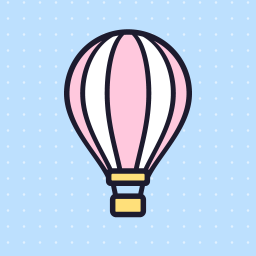
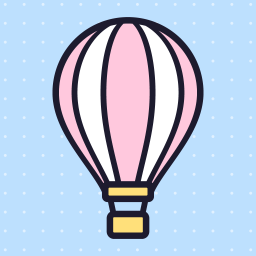
fix: icône agrandie et FAQ sur l'enregistrement (ajout seulement, sans album)

diff --git a/assistance.html b/assistance.html
@@ -74,12 +74,12 @@
 
     <details>
       <summary>Mes originaux sont-ils supprimés ?</summary>
-      <p>Non, jamais. Allège crée une copie allégée. Touchez « Enregistrer » pour l'ajouter à vos photos (album « Allège ») ou « Partager » pour l'envoyer. Vous pouvez ensuite supprimer l'original vous-même si vous le souhaitez.</p>
+      <p>Non, jamais. Allège crée une copie allégée. Touchez « Enregistrer » pour l'ajouter à vos photos, à côté de l'original, ou « Partager » pour l'envoyer. Vous pouvez ensuite supprimer l'original vous-même si vous le souhaitez.</p>
     </details>
 
     <details>
       <summary>« Enregistrer » ne fonctionne pas.</summary>
-      <p>Allège a besoin de l'autorisation d'ajouter des photos. Ouvrez Réglages &gt; Allège &gt; Photos et choisissez « Ajouter des photos uniquement » ou « Accès complet ». Sur Mac, « Enregistrer » vous demande de choisir un dossier.</p>
+      <p>Allège a besoin de l'autorisation d'ajouter des photos. Ouvrez Réglages &gt; Allège &gt; Photos et choisissez « Ajouter des photos uniquement » : Allège n'a jamais besoin de lire votre photothèque. Sur Mac, « Enregistrer » vous demande de choisir un dossier.</p>
     </details>
 
     <details>

diff --git a/en/support.html b/en/support.html
@@ -74,12 +74,12 @@
 
     <details>
       <summary>Are my originals deleted?</summary>
-      <p>No, never. Allège creates a lighter copy. Tap “Save” to add it to your photos (“Allège” album) or “Share” to send it. You can then delete the original yourself if you wish.</p>
+      <p>No, never. Allège creates a lighter copy. Tap “Save” to add it to your photos, next to the original, or “Share” to send it. You can then delete the original yourself if you wish.</p>
     </details>
 
     <details>
       <summary>“Save” does not work.</summary>
-      <p>Allège needs permission to add photos. Open Settings &gt; Allège &gt; Photos and choose “Add Photos Only” or “Full Access”. On Mac, “Save” asks you to choose a folder.</p>
+      <p>Allège needs permission to add photos. Open Settings &gt; Allège &gt; Photos and choose “Add Photos Only”: Allège never needs to read your photo library. On Mac, “Save” asks you to choose a folder.</p>
     </details>
 
     <details>
